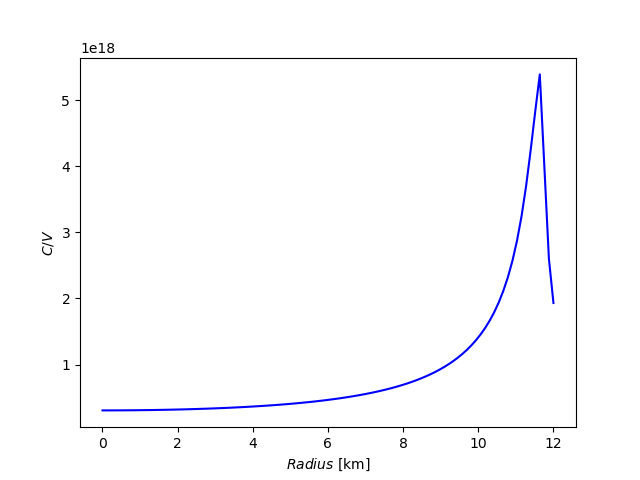
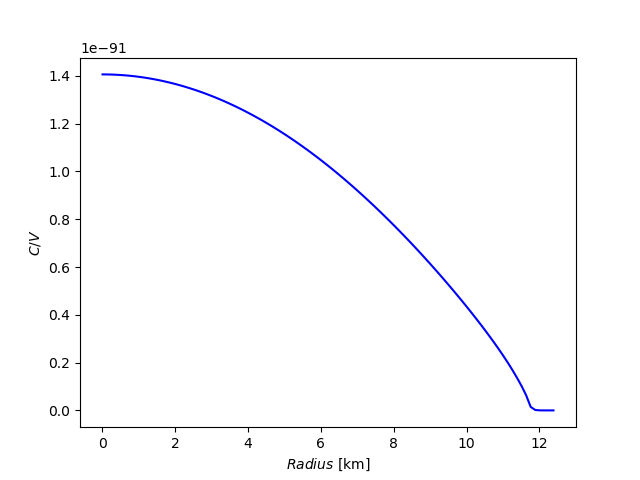
ok

diff --git a/cap_rate/MC_cap.c b/cap_rate/MC_cap.c
@@ -241,7 +241,7 @@ int main ()
 
 
 
-    double testmass = 1.;
+    double testmass = 1e-3;
 
     int range = 40;
     double mass_vals[range];
@@ -264,9 +264,9 @@ int main ()
        //double Br = B_r(vmax);
 
        //dCdr[i] = OmegaIntegral( 1., muFn, vmax )*sqrt(1.-Br)/Br/Br;
-       dCdr[i] = prefactors(testmass) * DMvel_integral( testmass, muFn, vmax) * nd*nd/ndfree * constCS();
+       dCdr[i] = prefactors(testmass) * OmegaIntegral( testmass, muFn, vmax, 0) * nd*nd/ndfree * constCS();
 
-       fprintf(outfile,"%0.10E\t%.10E\t%.10E\t%0.10E\t%0.10E\n", radint[i], dCdr[i] , nd/ndfree, muFn, vmax/SOL);
+       fprintf(outfile,"%0.10E\t%.10E\t%.10E\t%0.10E\t%0.10E\n", radint[i], dCdr[i] , nd*nd/ndfree, muFn, vmax/SOL);
        //dCdr[i] = log(radint[i] * radint[i] *1e6 * nd_interp(radint[i], npts) /nresc*OmegaIntegral( mass_vals[j], muFn, vmax ));
     }
 

diff --git a/cap_rate/NSinterp.c b/cap_rate/NSinterp.c
@@ -57,7 +57,7 @@ int readdata(char * filename){
    fclose(datafile);
 
    rmin = rad[0];
-   rmax = 12; // NS core
+   rmax = 12.387; // NS core
    //rmax = 12.158947177343357; // R inner crust
   //  printf("Npts: %d\n",npts);
    return npts;
